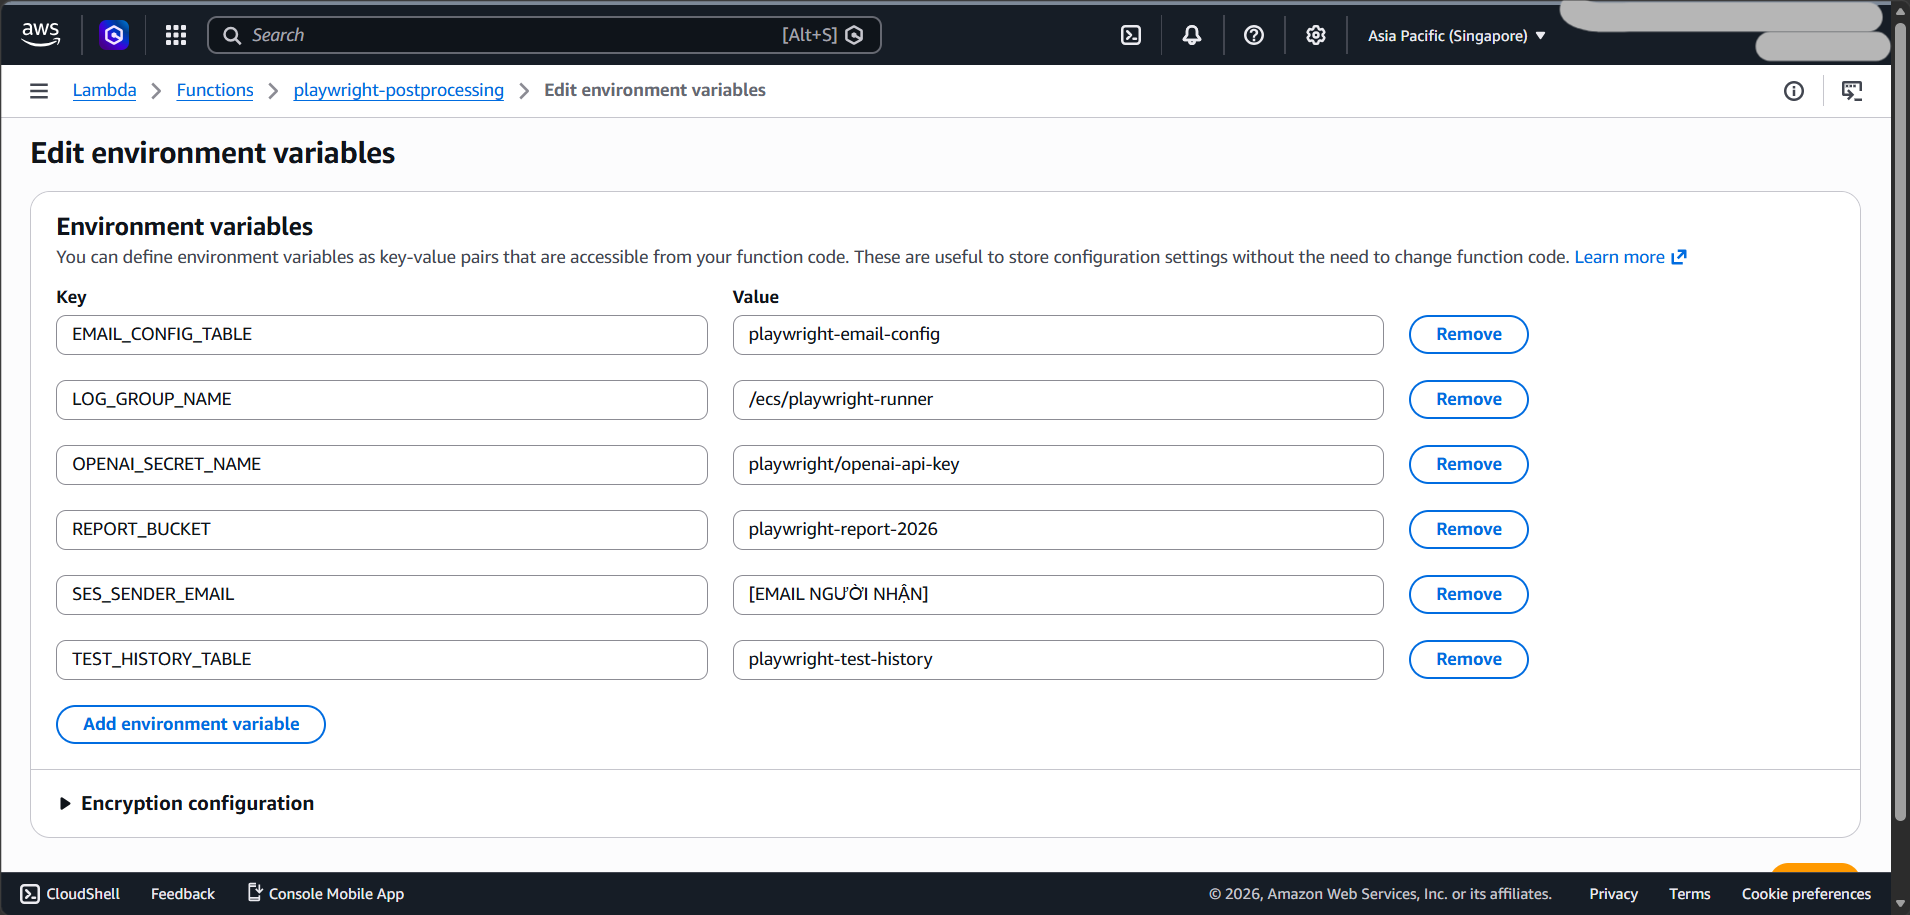
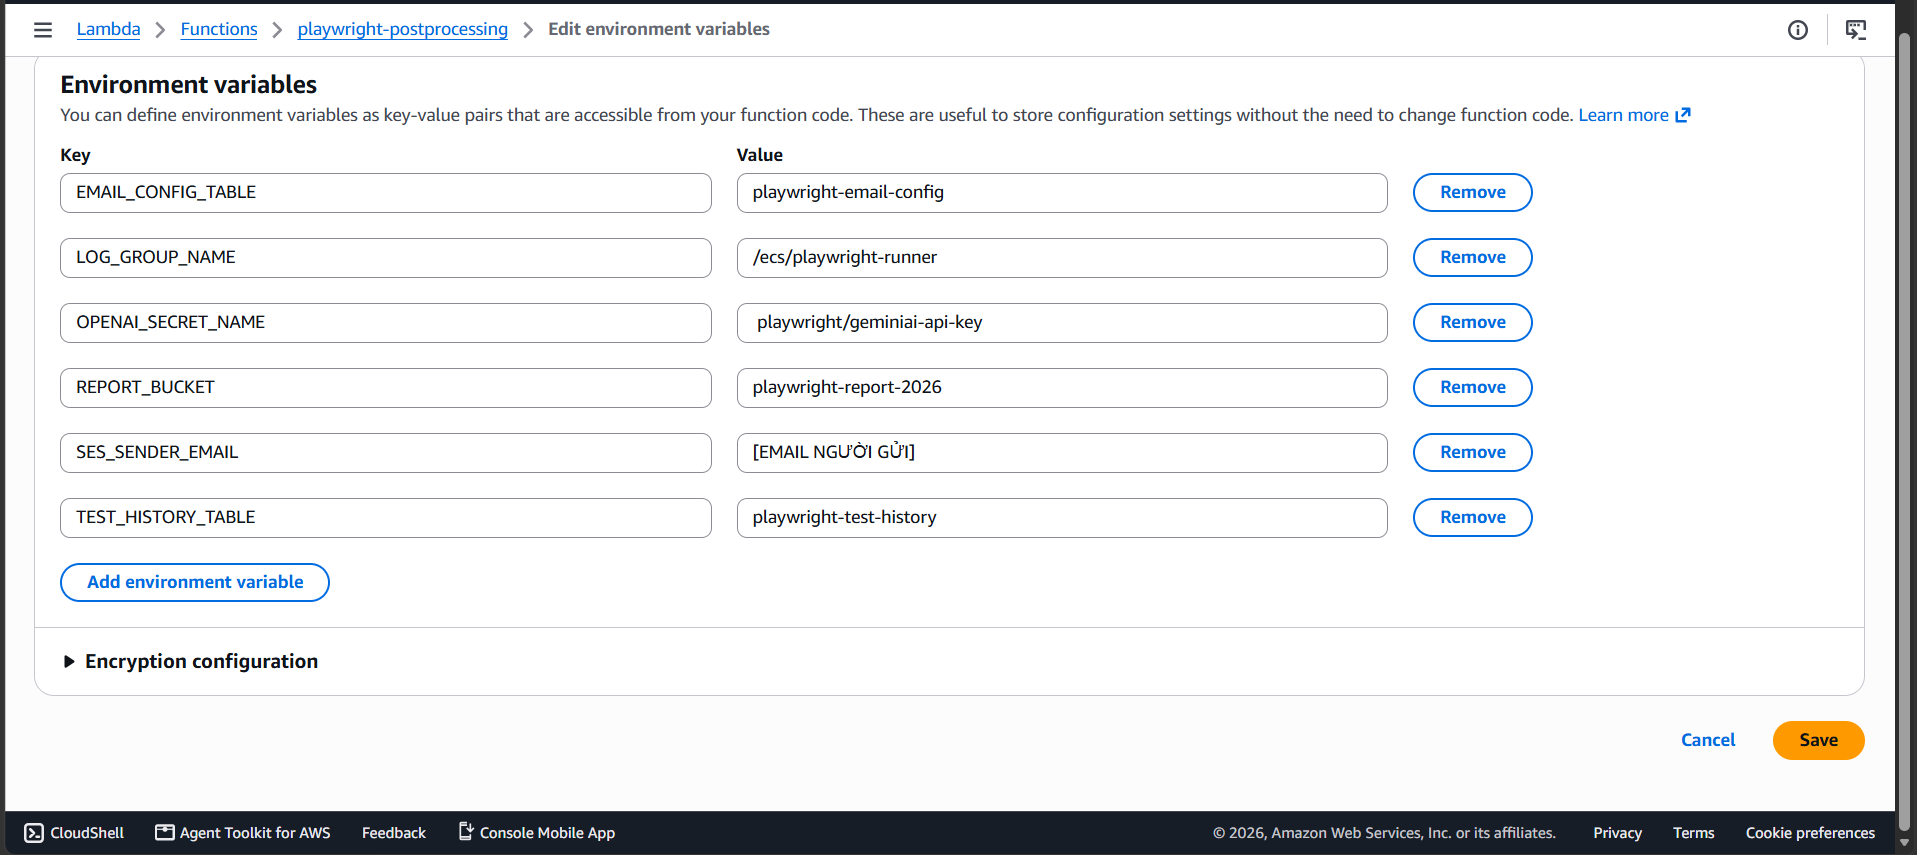
update wokshop final

diff --git a/content/5-Workshop/5.9-api-gateway-and-auth/_index.md b/content/5-Workshop/5.9-api-gateway-and-auth/_index.md
@@ -81,6 +81,8 @@ Don't forget to navigate back to the **AWS Lambda** console, open the `playwrigh
 ![Select HTTP API to Build](/images/5-Workshop/5.9-api-gateway-and-auth/5.3-api-gateway-http-build.png?featherlight=false&width=90pc)
 
 **Step 3:** Name the API `playwright-api`. Click **Next** until the Review screen, then click **Create**.
+![Create API playwright-api](/images/5-Workshop/5.9-api-gateway-and-auth/5.5-api-integration-lambda.png?featherlight=false&width=90pc)
+
 ![API playwright-api created successfully](/images/5-Workshop/5.9-api-gateway-and-auth/7b-api-created.png?featherlight=false&width=90pc)
 
 **Step 4:** Configure CORS (To allow the Frontend on a different domain to call the API):
@@ -90,7 +92,7 @@ Don't forget to navigate back to the **AWS Lambda** console, open the `playwrigh
 - Configure **Access-Control-Allow-Methods**: Select `*` (or GET, POST, PUT, DELETE, OPTIONS).
 - Click **Save**.
 
-![CORS configuration in API Gateway](/images/5-Workshop/5.9-api-gateway-and-auth/3.4.CORS.png?featherlight=false&width=90pc)
+![Configure CORS in API Gateway](/images/5-Workshop/5.9-api-gateway-and-auth/3.4.CORS.png?featherlight=false&width=90pc)
 
 **Step 5:** Add Routes and Integration (Connect to Lambda):
 - In the left-hand menu, select **Routes** -> Click **Create**.
@@ -99,37 +101,35 @@ Don't forget to navigate back to the **AWS Lambda** console, open the `playwrigh
   - **Schedule**: `GET /schedules` · `POST /schedules` · `DELETE /schedules/{id}`
   - **Config & Users**: `GET /email-config` · `POST /email-config` · `GET /users` · `GET /audit-logs`
   - **Report**: `GET /reports` · `GET /AI-insights`
-
-![Routes list created in API Gateway](/images/5-Workshop/5.9-api-gateway-and-auth/3.5.Routes.png?featherlight=false&width=90pc)
-
 - Switch to the **Integrations** menu, select each Route you just created -> Click **Attach integration** -> Select **AWS Lambda** -> Select the corresponding Lambda functions created in section 5.7 -> Click **Create**.
-![Select Lambda integration](/images/5-Workshop/5.9-api-gateway-and-auth/5.5-api-integration-lambda.png?featherlight=false&width=90pc)
+  
+![List of created Routes in API Gateway](/images/5-Workshop/5.9-api-gateway-and-auth/3.5.Routes.png?featherlight=false&width=90pc)
 
 **Step 6:** Configure Cognito Authorizer (API Security):
 
-**Navigate to Authorization:**
-- In the left-hand menu under the **Develop** section, select **Authorization**.
-
-![Authorization section in left menu](/images/5-Workshop/5.9-api-gateway-and-auth/2.6%20taoAPIbaomat.png?featherlight=false&width=90pc)
+**Go to Authorization:**
+- In the left-hand menu under **Develop**, select **Authorization**.
 
 **Create Authorizer:**
-- Switch to the **Manage authorizers** tab (next to the Attach authorizers to routes tab) → Click **Create**.
-- Fill in the configuration details:
+- Switch to the **Manage authorizers** tab (next to Attach authorizers to routes) → Click **Create**.
+- Fill in the configuration:
   - **Authorizer type**: Select `JWT`.
-  - **Name**: Enter `CognitoAuth`.
+  - **Name**: Enter `cognito-authorizer`.
   - **Identity source**: Enter `$request.header.Authorization` (AWS auto-fills this).
-  - **Issuer URL**: Enter `https://cognito-idp.<region>.amazonaws.com/<User_Pool_ID>` (e.g., `https://cognito-idp.ap-southeast-1.amazonaws.com/ap-southeast-1_luonEyHpX`).
-  - **Audience**: Click **Add audience** then enter the App Client ID obtained in Part 1 (e.g., `4hfihsrbb685m2kgj20f7ihput`).
+  - **Issuer URL**: Enter `https://cognito-idp.<region>.amazonaws.com/<User_Pool_ID>`
+  - **Audience**: Click **Add audience** and enter the App Client ID obtained in Part 1.
+![Authorization section in the left menu](/images/5-Workshop/5.9-api-gateway-and-auth/2.6%20taoAPIbaomat.png?featherlight=false&width=90pc)
+
 - Click **Create** to complete.
 
 ![Authorizer CognitoAuth created](/images/5-Workshop/5.9-api-gateway-and-auth/8a-authorizer-created.png?featherlight=false&width=90pc)
 
 **Attach Authorizer to Routes:**
 - Switch back to the **Attach authorizers to routes** tab.
-- Select the Routes to secure (like `/trigger`, `/test-runs`,...).
-- In the **Select authorizer** dropdown, select `CognitoAuth` just created → Click **Attach authorizer**.
+- Select the Routes to secure (e.g., `/trigger`, `/test-runs`, ...).
+- In the **Select authorizer** box, select the newly created `cognito-authorizer` → Click **Attach authorizer**.
 
-![Route with JWT Authorizer attached](/images/5-Workshop/5.9-api-gateway-and-auth/8b-route-jwt-attached.png?featherlight=false&width=90pc)
+![Route with JWT Auth attached](/images/5-Workshop/5.9-api-gateway-and-auth/8b-route-jwt-attached.png?featherlight=false&width=90pc)
 
 **Step 7:** Get Invoke URL:
 - Return to the HTTP API overview page (**Stages** section -> select the `$default` or `prod` stage).

diff --git a/content/5-Workshop/5.2-Prerequisite/5.2.2-create-vpc/_index.md b/content/5-Workshop/5.2-Prerequisite/5.2.2-create-vpc/_index.md
@@ -1,4 +1,4 @@
----
+---
 title : "Create VPC"
 date : 2026-07-10
 weight : 2
@@ -6,7 +6,7 @@ chapter : false
 pre : " <b> 5.2.2. </b> "
 ---
 
-### 1. Create Virtual Private Cloud (VPC)
+#### 1. Create Virtual Private Cloud (VPC)
 
 In this section, we will build the network infrastructure from scratch. The first step is to create an isolated Virtual Private Cloud (VPC).
 
@@ -26,7 +26,7 @@ In this section, we will build the network infrastructure from scratch. The firs
 
 **Step 4:** When the green success notification appears, congratulations, you have successfully created the VPC network frame.
 
-### 2. Subnet division (Subnets)
+#### 2. Subnet division (Subnets)
 
 After creating the VPC, we need to divide it into Subnets. Our system requires at least 1 Public Subnet (for Internet communication) and 1 Private Subnet (to securely run E2E tasks).
 
@@ -50,7 +50,7 @@ The process of creating a Private Subnet is exactly the same as the Public Subne
 - **Availability Zone:** Select `Asia Pacific (Singapore) / apse1-az1 (ap-southeast-1b)` (or any AZ different from the public subnet)
 - **IPv4 subnet CIDR block:** Enter `10.0.2.0/24`
 
-### 3. Create Internet Gateway (IGW)
+#### 3. Create Internet Gateway (IGW)
 
 For the Public Subnet to communicate with the Internet, we need an **Internet Gateway**.
 
@@ -66,7 +66,7 @@ For the Public Subnet to communicate with the Internet, we need an **Internet Ga
 
 ![Attach to VPC](/images/5-Workshop/5.2-Prerequisite/5.2.2-create-vpc/attach-igw.png?featherlight=false&width=90pc)
 
-### 4. Allocate Elastic IP and Create NAT Gateway
+#### 4. Allocate Elastic IP and Create NAT Gateway
 
 The Private Subnet cannot access the Internet directly. To allow resources in the Private Subnet (like ECS Fargate) to download packages or communicate outbound, we need a **NAT Gateway** placed in the Public Subnet, and this NAT Gateway requires a static IP address (**Elastic IP**).
 
@@ -93,7 +93,7 @@ The Private Subnet cannot access the Internet directly. To allow resources in th
 
 ![Create NAT Gateway](/images/5-Workshop/5.2-Prerequisite/5.2.2-create-vpc/create-nat-gw.png?featherlight=false&width=90pc)
 
-### 5. Configure Route Tables
+#### 5. Configure Route Tables
 
 A Route Table acts like a traffic sign, deciding where network traffic should go. We need to configure 2 Route Tables: one for the Public Subnet (routing to the Internet) and one for the Private Subnet (routing to the NAT Gateway).
 
@@ -141,7 +141,7 @@ A Route Table acts like a traffic sign, deciding where network traffic should go
 
 ![Route to NAT Gateway](/images/5-Workshop/5.2-Prerequisite/5.2.2-create-vpc/private-route-nat.png?featherlight=false&width=90pc)
 
-### 6. Configure Security Groups
+#### 6. Configure Security Groups
 
 To allow services inside the VPC to communicate securely, we need to set up Security Groups (SGs). We need 3 SGs: for Lambda, for Fargate, and for VPC Endpoints.
 **Important note on ordering:** You must create the SGs for Lambda and Fargate first, before creating the Endpoint SG, because the Endpoint SG needs to reference the other two in its Inbound rules.

diff --git a/content/5-Workshop/5.8-secrets-and-notification/5.8.1-secrets-manager/_index.md b/content/5-Workshop/5.8-secrets-and-notification/5.8.1-secrets-manager/_index.md
@@ -141,7 +141,9 @@ The page should display:
 
 ![Secret created successfully](/images/5-Workshop/5.8-secrets-and-notification/5.8.1-secrets-manager/04-secret-created.png?featherlight=false&width=90pc)
 
-Do **not** click **Retrieve secret value** when taking screenshots because the API Key will be displayed.
+{{% notice note %}}
+Do not click **Retrieve secret value** when taking screenshots, as it will reveal your API Key.
+{{% /notice %}}
 
 ---
 
@@ -234,7 +236,12 @@ Retrieve Secret
 Call AI API
 ```
 
-The AI API Key is now securely stored and can be accessed only by the Lambda function through AWS Secrets Manager.
+After completing this section:
+
+- The AI API Key is securely stored in AWS Secrets Manager.
+- Lambda does not need to store the API Key in the source code.
+- The API Key is retrieved only when the Lambda function executes.
+- Easily change or update the API Key without modifying the source code.
 
 ---
 

diff --git a/content/5-Workshop/5.2-Prerequisite/5.2.3-configure-iam/_index.md b/content/5-Workshop/5.2-Prerequisite/5.2.3-configure-iam/_index.md
@@ -82,11 +82,14 @@ Create another new role and select:
 
 | Policy | Purpose |
 | --- | --- |
-| `CloudWatchLogsFullAccess` | Write function execution logs |
 | `AmazonDynamoDBFullAccess` | Update test result status in DynamoDB |
-| `SecretsManagerReadWrite` | Read the AI API Key from Secrets Manager |
+| `AmazonECS_FullAccess` | Allows Lambda to start and monitor ECS tasks |
 | `AmazonS3FullAccess` | Read/write Playwright reports in S3 |
 | `AmazonSESFullAccess` | Send test result notification emails |
+| `AmazonSQSFullAccess` | Allows Lambda to send/receive messages from SQS queues |
+| `AWSLambdaVPCAccessExecutionRole` | Allows Lambda to connect to VPC |
+| `CloudWatchLogsFullAccess` | Write function execution logs |
+| `SecretsManagerReadWrite` | Read the AI API Key from Secrets Manager |
 
 ![Attach policies for playwright-postprocessing-role](/images/5-Workshop/5.2-Prerequisite/5.2.3-configure-iam/2b-postprocessing-add-permissions.png?featherlight=false&width=90pc)
 
@@ -98,7 +101,7 @@ playwright-postprocessing-role
 
 ![Enter name playwright-postprocessing-role](/images/5-Workshop/5.2-Prerequisite/5.2.3-configure-iam/2c-postprocessing-name.png?featherlight=false&width=90pc)
 
-Verify that the **Permissions policies** section shows all 5 policies above, and that the trust policy contains the `lambda.amazonaws.com` service principal, then choose **Create role**.
+Verify that the **Permissions policies** section shows all 8 policies above, and that the trust policy contains the `lambda.amazonaws.com` service principal, then choose **Create role**.
 
 ![Verify and create role](/images/5-Workshop/5.2-Prerequisite/5.2.3-configure-iam/2d-postprocessing-created.png?featherlight=false&width=90pc)
 

diff --git a/content/5-Workshop/5.1-Workshop-overview/_index.md b/content/5-Workshop/5.1-Workshop-overview/_index.md
@@ -24,6 +24,14 @@ In this workshop, you will build and deploy a Cloud-Native End-to-End (E2E) auto
 
 ![Architecture](/images/5-Workshop/5.1-Workshop-overview/Architecture.png?featherlight=false&width=90pc)
 
+### Infrastructure Deployment Reference Video
+
+{{% notice info %}}
+The video below records the actual configuration process on the AWS Console (setting up IAM, configuring Lambda, ECS, etc.). You can refer to this video alongside the documentation below to easily grasp the infrastructure deployment steps.
+{{% /notice %}}
+
+👉 **[Watch the Configuration Walkthrough Video here](https://drive.google.com/drive/folders/1czRuhzPvE-jRlHnOzVgb19QzMhZFUVnC?usp=sharing)**
+
 ---
 
 Next, we will move on to **[5.2. Prerequisites](../5.2-Prerequisite/)** to set up the necessary tools and infrastructure.

diff --git a/content/5-Workshop/5.1-Workshop-overview/_index.vi.md b/content/5-Workshop/5.1-Workshop-overview/_index.vi.md
@@ -24,6 +24,14 @@ Trong workshop này, bạn sẽ xây dựng và triển khai một nền tảng 
 
 ![Architecture](/images/5-Workshop/5.1-Workshop-overview/Architecture.png?featherlight=false&width=90pc)
 
+### Video Tham khảo Thao tác Triển khai
+
+{{% notice info %}}
+Video dưới đây ghi lại quá trình thao tác thực tế trên giao diện AWS Console (thiết lập IAM, cấu hình Lambda, ECS...). Bạn có thể tham khảo video này kết hợp cùng tài liệu bên dưới để dễ dàng nắm bắt các bước triển khai hạ tầng.
+{{% /notice %}}
+
+👉 **[Xem Video Thao tác Cấu hình tại đây](https://drive.google.com/drive/folders/1czRuhzPvE-jRlHnOzVgb19QzMhZFUVnC?usp=sharing)**
+
 ---
 
 Tiếp theo, chúng ta sẽ chuyển sang **[5.2. Chuẩn bị](../5.2-Prerequisite/)** để thiết lập các công cụ và hạ tầng cần thiết.

diff --git a/content/5-Workshop/5.2-Prerequisite/5.2.5-create-ecr/_index.md b/content/5-Workshop/5.2-Prerequisite/5.2.5-create-ecr/_index.md
@@ -134,3 +134,7 @@ This URI will be used when creating the ECS task definition for the Playwright R
 The test source code and `Dockerfile` to build the image for this ECR are ready. Please clone the following repository to your machine for use in section 5.5:
 [https://github.com/VanPhuc-027/playwright-runner.git](https://github.com/VanPhuc-027/playwright-runner.git)
 {{% /notice %}}
+
+---
+
+Next, we will move on to **[5.3. Storage and Database](../5.3-storage-and-database/)** to create the S3 Bucket and DynamoDB table.

diff --git a/content/5-Workshop/5.2-Prerequisite/5.2.5-create-ecr/_index.vi.md b/content/5-Workshop/5.2-Prerequisite/5.2.5-create-ecr/_index.vi.md
@@ -134,3 +134,7 @@ URI này sẽ được sử dụng khi tạo ECS task definition cho Playwright 
 Mã nguồn kiểm thử và file `Dockerfile` để build image cho ECR này đã được chuẩn bị sẵn. Bạn hãy clone repository sau về máy để sử dụng ở phần 5.5 nhé:
 [https://github.com/VanPhuc-027/playwright-runner.git](https://github.com/VanPhuc-027/playwright-runner.git)
 {{% /notice %}}
+
+---
+
+Tiếp theo, chúng ta sẽ chuyển sang **[5.3. Lưu trữ và Cơ sở dữ liệu](../5.3-storage-and-database/)** để khởi tạo S3 Bucket và bảng DynamoDB.

diff --git a/content/5-Workshop/5.8-secrets-and-notification/5.8.1-secrets-manager/_index.vi.md b/content/5-Workshop/5.8-secrets-and-notification/5.8.1-secrets-manager/_index.vi.md
@@ -1,4 +1,4 @@
----
+---
 title : "AI API Key"
 date : 2026-06-19
 weight : 1
@@ -104,6 +104,8 @@ Sau đó chọn **Next**.
 ---
 
 **Bước 5:** Kiểm tra và lưu Secret
+
+Xem lại cấu hình.
 
 Kiểm tra lại các thông tin:
 

diff --git a/content/5-Workshop/5.10-frontend/_index.vi.md b/content/5-Workshop/5.10-frontend/_index.vi.md
@@ -103,11 +103,12 @@ npm run build
 #### Phần 4: Tạo CloudFront Distribution
 
 **Bước 1:** Tại thanh tìm kiếm AWS Console, gõ `CloudFront` → Chọn **CloudFront** → Bấm nút **Create distribution**. Ở **Step 1: Choose a plan**, đảm bảo đã tích chọn gói **Free ($0/month)** (mặc định đã được chọn sẵn) → Cuộn xuống góc dưới bên phải và bấm **Next**.
+
 ![Chọn gói Free](/images/5-Workshop/5.10-frontend/4.2-cloudfront-choose-plan.png?featherlight=false&width=90pc)
 
 **Bước 2 (Get started):** Tại mục **Distribution options**, điền tên phân phối vào ô **Distribution name** (ví dụ: `playwright-cloudfront-123`), sau đó cuộn xuống cuối trang và bấm **Next**.
-![Mở CloudFront Console](/images/5-Workshop/5.10-frontend/4.1-cloudfront-console.png?featherlight=false&width=90pc)
 
+![Mở CloudFront Console](/images/5-Workshop/5.10-frontend/4.1-cloudfront-console.png?featherlight=false&width=90pc)
 
 **Bước 3 (Specify origin):** Đây chính là bước cấu hình S3 Bucket:
 - **Origin domain**: Bấm vào ô tìm kiếm và chọn bucket `playwright-webui-xxx.s3.ap-southeast-1.amazonaws.com`.